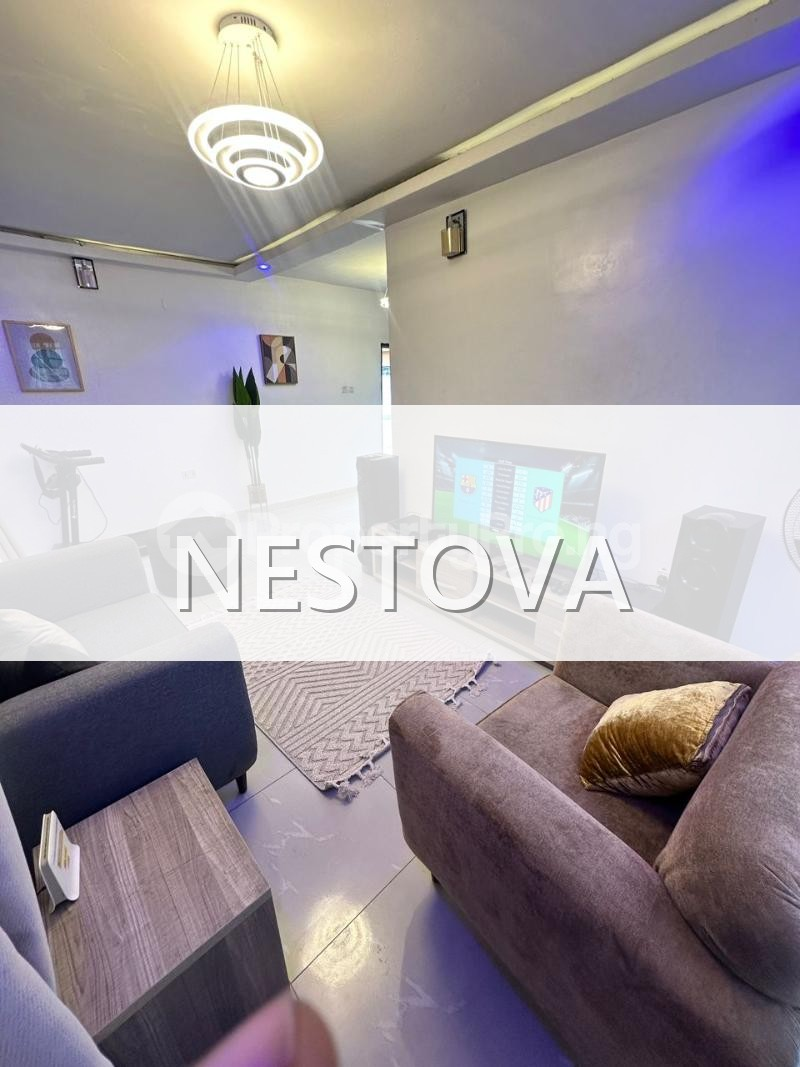
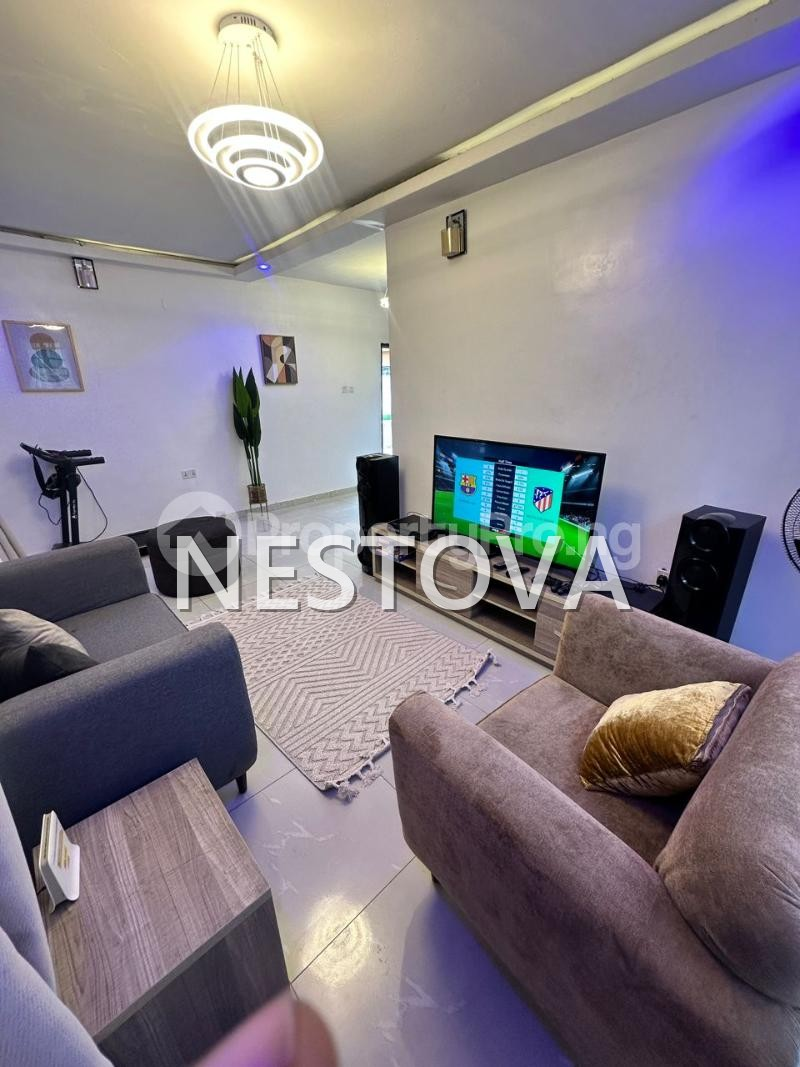
Remove white veil to show Nestova text directly on image like PropertyPro

Changed region(s): [[0.0, 0.3711, 1.0, 0.6186]]

diff --git a/bookings/image_processor.py b/bookings/image_processor.py
@@ -45,23 +45,6 @@ def _load_font(size: int) -> ImageFont.FreeTypeFont:
     return ImageFont.load_default()
 
 
-def _erase_propertypro(pil_rgba: Image.Image) -> Image.Image:
-    """
-    Paints a soft, semi-transparent white rectangle over the center band
-    (38 %–62 % of image height) where the PropertyPro watermark lives.
-    This makes the old text invisible without creating smudge artefacts.
-    """
-    w, h = pil_rgba.size
-    y_top    = int(h * 0.38)
-    y_bottom = int(h * 0.62)
-
-    # Soft white veil — alpha 210 (~82%) fully erases PropertyPro text
-    # while still letting the faint image show through behind Nestova
-    veil = Image.new("RGBA", (w, y_bottom - y_top), (255, 255, 255, 210))
-    pil_rgba.paste(veil, (0, y_top), veil)
-    return pil_rgba
-
-
 def _stamp_nestova(pil_img: Image.Image) -> Image.Image:
     """
     Draw a large, centered, semi-transparent NESTOVA watermark over the image.
@@ -74,9 +57,6 @@ def _stamp_nestova(pil_img: Image.Image) -> Image.Image:
     """
     pil_rgba = pil_img.convert("RGBA")
     w, h = pil_rgba.size
-
-    # Step 1: Erase the PropertyPro watermark region with a soft white veil
-    pil_rgba = _erase_propertypro(pil_rgba)
 
     # Create a transparent overlay to draw on
     overlay = Image.new("RGBA", (w, h), (0, 0, 0, 0))
